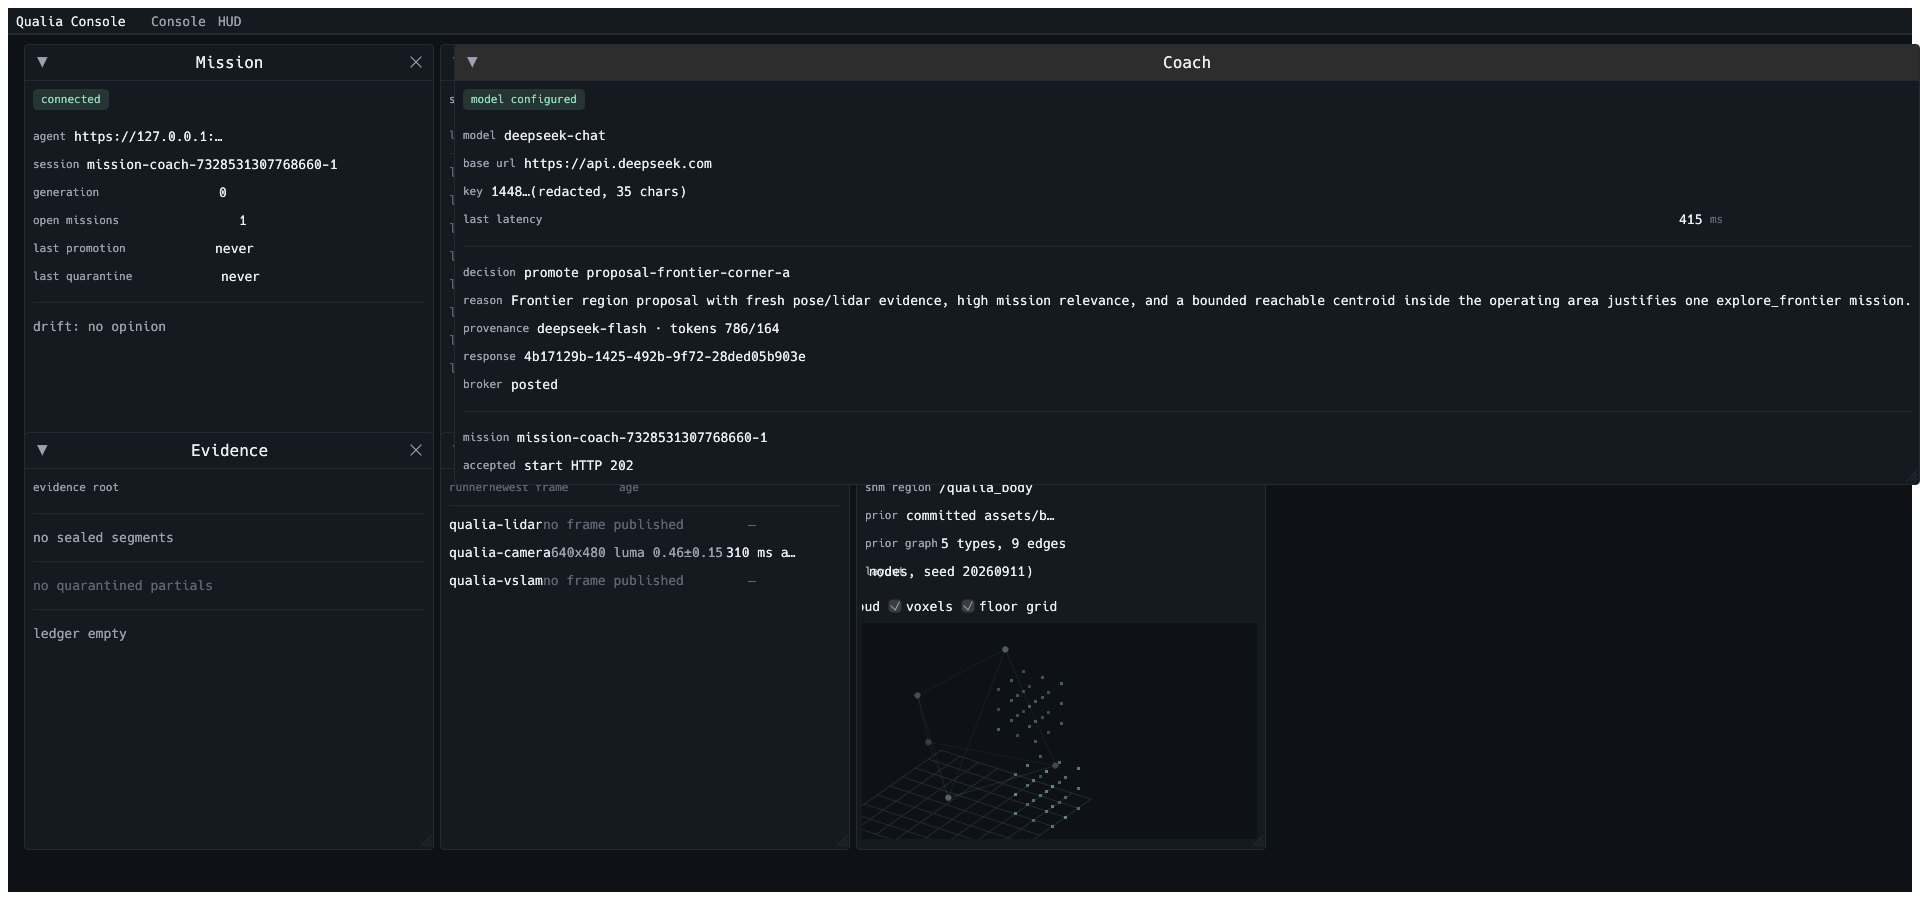
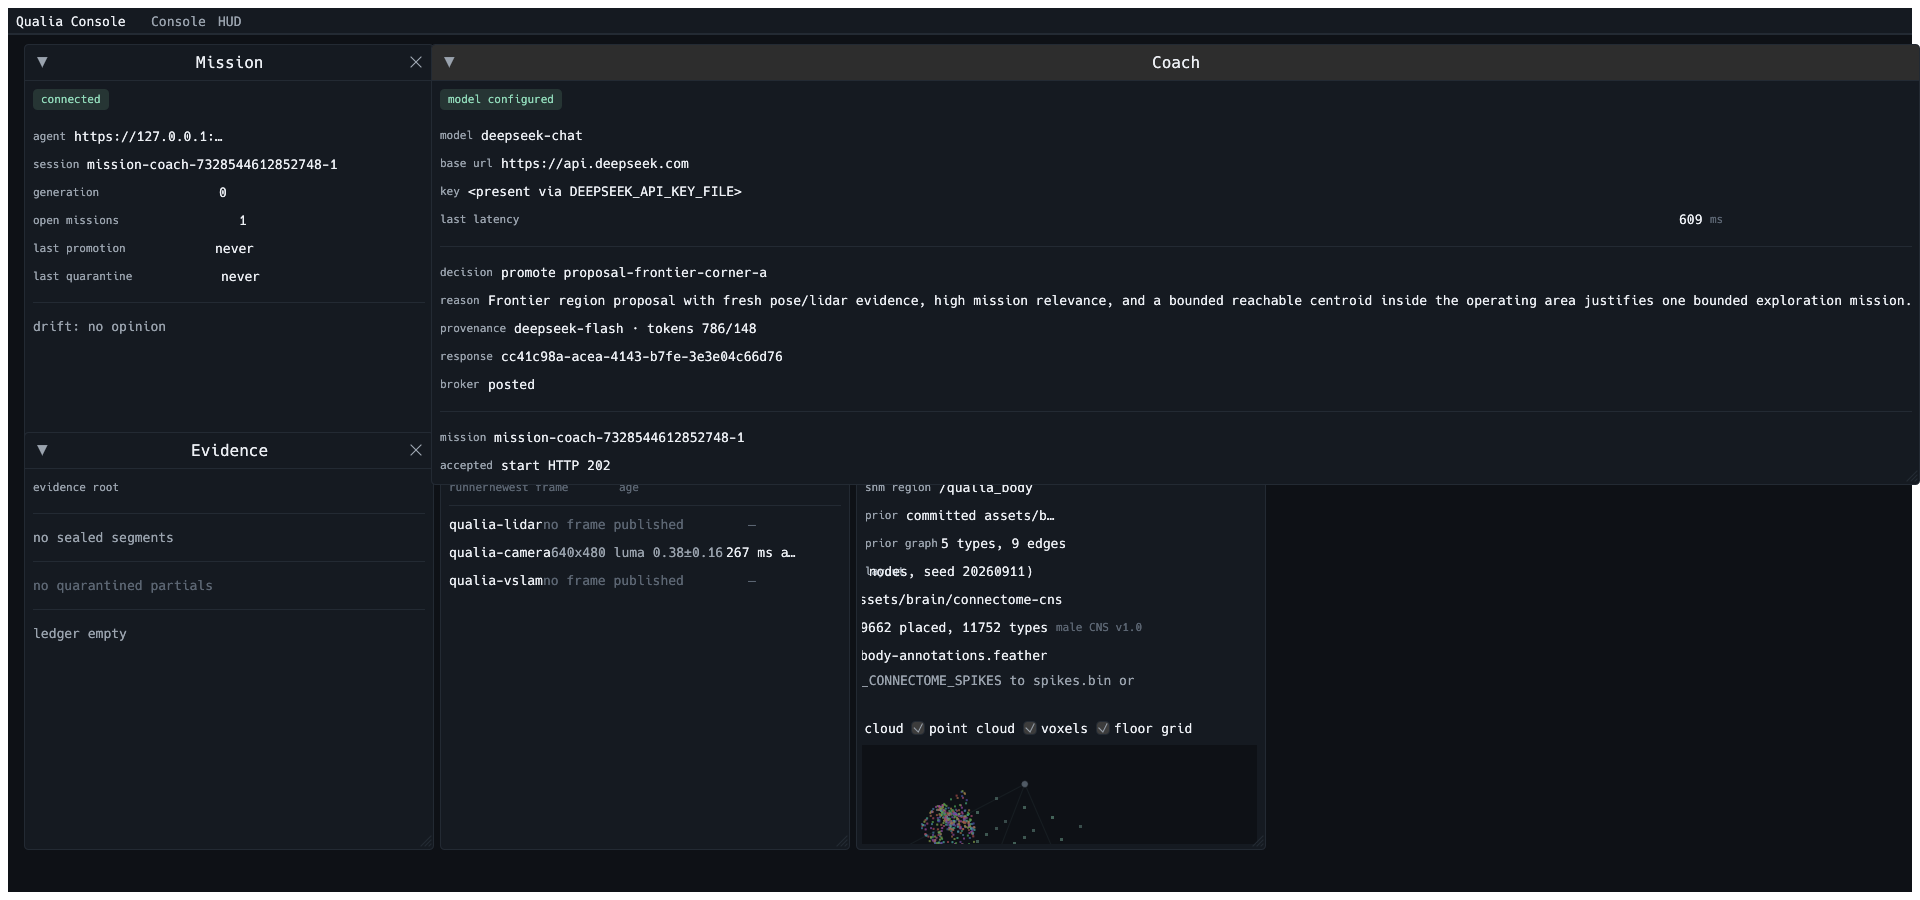
T66: refresh the T63 evidence with the presence-only run (#251)
live-run.txt is the re-run `--once` pass: `key=<present via
DEEPSEEK_API_KEY_FILE>`, response 9f8bbc50-…, 449 ms, 782/139 tokens, exit 0
state=posted.

coach-panel.png is re-rendered headlessly (no window, D-023) on the rebased
tree (D-026: origin/main now carries #252's console changes). The capture run
is `--ticks 30 --poll-ms 2000` over the live status surface; the panel shows
the presence token, 609 ms, 786/148 tokens, response cc41c98a-…, mission
mission-coach-7328544612852748-1. Against the pre-rebase render 39,611 px
moved: 2,805 px inside the panel (its live value lines, absolute y 214-308)
and 36,806 px across the six-view grid, which reads live frame ages and the
new mission state; the key line is byte-identical between the two renders. No
committed console snapshot is touched by this branch, so no other ticket's
render can be reverted.

The README's transcript quotes and panel quote now match those runs, and the
qualification about the 4-character prefix is gone because there is nothing
left to qualify.

Also: CoachConfig's Debug is hand-written. A `{:?}` on the config that holds
the credential must not be a way to reach it; it now prints the presence and
provenance the log line prints.

diff --git a/runners/mission-broker/src/config.rs b/runners/mission-broker/src/config.rs
@@ -74,7 +74,7 @@ impl Area {
 }
 
 /// The coach's configuration, resolved from the environment.
-#[derive(Debug, Clone)]
+#[derive(Clone)]
 pub struct CoachConfig {
     pub base_url: String,
     pub model: String,
@@ -104,6 +104,26 @@ impl CoachConfig {
     /// Whether a credential is present, without exposing it.
     pub fn configured(&self) -> bool {
         self.api_key.is_some()
+    }
+}
+
+/// Deliberately not derived: a `{:?}` on the configuration must not be a way
+/// to reach the credential, so this prints what [`crate::redact::key_presence`]
+/// prints — presence and provenance — and never `api_key`.
+impl std::fmt::Debug for CoachConfig {
+    fn fmt(&self, f: &mut std::fmt::Formatter<'_>) -> std::fmt::Result {
+        f.debug_struct("CoachConfig")
+            .field("base_url", &self.base_url)
+            .field("model", &self.model)
+            .field(
+                "key_presence",
+                &self
+                    .key_source
+                    .as_deref()
+                    .map(|source| crate::redact::key_presence(Some(source))),
+            )
+            .field("timeout", &self.timeout)
+            .finish()
     }
 }
 

diff --git a/docs/evidence/T63/README.md b/docs/evidence/T63/README.md
@@ -22,15 +22,15 @@ broker read the same secret through the same `_FILE` key.
 
 ## The live request and response
 
-`live-run.txt` is the run verbatim; the facts, redacted. **The credential never appears** and this tree
-contains no key-shaped literal. One honest qualification the correctness review added: the redactor prints a
-**4-character prefix and the key's length** by design (`key=1448… (redacted, 35 chars)`), so the evidence does
-carry 4 of 35 characters — 16 bits, not recoverable, but it is material, and ticket #251 removes even that so
-the sentence becomes unconditionally true.
+`live-run.txt` is the run verbatim; the facts, redacted. **The credential never appears**: a configured key is
+named by presence and provenance only (`key=<present via DEEPSEEK_API_KEY_FILE>`), with no character of the key
+and no length, and this tree contains no key-shaped literal. Re-captured 2026-09-12 under #251 — the earlier
+transcript carried a 4-character prefix plus the key's length, and `redact.rs` no longer has a prefix mode; this
+is the live `--once` pass after that change.
 
 ```text
-coach request  model=deepseek-chat base_url=https://api.deepseek.com key=1448…(redacted, 35 chars) prompt_digest=sha256:471331be… prompt_bytes=2859 timeout_ms=8000
-coach response id=14e8c6f7-8f7d-472d-a537-30415f7e20ab model=deepseek-flash latency_ms=435 usage=prompt_tokens=775 completion_tokens=144 finish_reason=stop
+coach request  model=deepseek-chat base_url=https://api.deepseek.com key=<present via DEEPSEEK_API_KEY_FILE> prompt_digest=sha256:e54a98a3… prompt_bytes=2879 timeout_ms=8000
+coach response id=9f8bbc50-469a-45cf-97b4-772ff20a43d9 model=deepseek-flash latency_ms=449 usage=prompt_tokens=782 completion_tokens=139 finish_reason=stop
 ```
 
 The provider reported its own model id (`deepseek-flash`) rather than the
@@ -44,10 +44,10 @@ parsed into a decision:
 ```json
 {"decision_kind":"promote","target_proposal_ids":["proposal-frontier-corner-a"],
  "output_ids":["proposal-frontier-corner-a"],
- "reason":"Frontier region proposal with fresh pose/lidar evidence, high mission relevance, and a bounded reachable centroid inside the operating area justifies one bounded exploration mission.",
+ "reason":"Frontier region proposal with fresh pose/lidar evidence, high mission relevance, and bounds inside the operating area justifies one bounded exploration mission.",
  "mission":{"objective_kind":"explore_frontier",
-            "summary":"Explore frontier region near corner A within bounded distance and runtime.",
-            "target_x_m":1.9,"target_y_m":1.1,"tolerance_m":0.5,
+            "summary":"Explore frontier region in the corner of the operating area.",
+            "target_x_m":1.9,"target_y_m":1.1,"tolerance_m":0.3,
             "max_distance_m":2.0,"max_runtime_ms":60000,"max_replans":1}}
 ```
 
@@ -60,13 +60,16 @@ from the proposal's `lineage.evidence_refs` (`evidence_refs=2`).
 
 ```text
 qualia-mission-broker: posted POST https://127.0.0.1:8080/mission-control/envelopes -> HTTP 202 accepted=true idempotent_replay=false
-qualia-mission-broker: read back GET /mission-control/missions -> mission mission-coach-7328529549370528-1 status=paused stage=awaiting_evidence code=awaiting_fresh_evidence
-qualia-mission-broker: read back GET /mission-control/events -> seq=1 kind=accepted status=queued code=accepted detail=bounded mission was durably accepted
+qualia-mission-broker: read back GET /mission-control/missions -> mission mission-coach-7328542779780072-1 status=paused stage=awaiting_evidence code=awaiting_fresh_evidence
+qualia-mission-broker: read back GET /mission-control/events -> seq=13 kind=accepted status=queued code=accepted detail=bounded mission was durably accepted
+qualia-mission-broker: read back GET /mission-control/events -> seq=14 kind=paused status=paused code=awaiting_fresh_evidence detail=mission is paused until referenced fresh spatial evidence exists
 ```
 
 The agent's own answer, captured from `GET /mission-control/missions`
 (`missions-after-live-run.json`, read with the CA certificate and no token —
-the Read scope is loopback-bypassed):
+the Read scope is loopback-bypassed). It is the T63-era capture, so it holds
+T63's two missions; the #251 re-run's own mission id, posted and read back
+above, is in `live-run.txt`:
 
 ```text
 schema qualia.mission-control-state.v1 broker_epoch 7328531307768660 seq 1 count 2
@@ -74,7 +77,7 @@ mission-coach-7328531307768660-1 broker qualia-mission-broker-chalant epoch 7328
 mission-coach-7328529549370528-1 broker qualia-mission-broker-chalant epoch 7328529549370528 seq 1 cmd start evidence_refs 2 | status failed  terminal           deadline_exceeded
 ```
 
-The second row is the honest end of the first `--once` pass: its deadline is its
+The second row is the honest end of T63's first `--once` pass: its deadline is its
 own `max_runtime_ms` (60 s), the mission parked at `awaiting_fresh_evidence`
 because this build has no spatial world model (`/world-model/proposals` is a
 `503` stub), and the agent's supervisor closed it when the deadline passed. It
@@ -88,13 +91,13 @@ on its bounded run. The Coach panel reads `GET /coach` and shows, verbatim:
 
 ```text
 model configured      model deepseek-chat      base url https://api.deepseek.com
-key 1448… (redacted, 35 chars)                 last latency 415 ms
+key <present via DEEPSEEK_API_KEY_FILE>        last latency 609 ms
 decision promote proposal-frontier-corner-a
 reason Frontier region proposal with fresh pose/lidar evidence, …
-provenance deepseek-flash · tokens 786/164
-response 4b17129b-1425-492b-9f72-28ded05b903e
+provenance deepseek-flash · tokens 786/148
+response cc41c98a-acea-4143-b7fe-3e3e04c66d76
 broker posted
-mission mission-coach-7328531307768660-1       accepted start HTTP 202
+mission mission-coach-7328544612852748-1       accepted start HTTP 202
 ```
 
 and the six views around it (`open_missions=1` on the Mission panel and the
@@ -105,12 +108,12 @@ The example prints what it drew:
 
 ```text
 coach_evidence: broker http://127.0.0.1:8091 -> deepseek-chat (ok), 1 decision(s), 1 mission(s)
-coach_evidence: decision coach-7328531307768660-1 promote -> proposal-frontier-corner-a · model deepseek-flash · latency 415 ms · tokens 786/164 · response 4b17129b-… · priors_ablated=false
+coach_evidence: decision coach-7328544612852748-1 promote -> proposal-frontier-corner-a · model deepseek-flash · latency 609 ms · tokens 786/148 · response cc41c98a-… · priors_ablated=false
 
 (That line is the **bounded `--ticks 30` capture run**, not the `--once` run: the `--once` run's own numbers are
-in `live-run.txt` — 435 ms, 775/144 tokens, response `14e8c6f7-…`. Both are live model calls; they are simply
+in `live-run.txt` — 449 ms, 782/139 tokens, response `9f8bbc50-…`. Both are live model calls; they are simply
 different runs, and a reader must not cross-quote them.)
-coach_evidence: mission mission-coach-7328531307768660-1 start accepted=true ack=Some(202)
+coach_evidence: mission mission-coach-7328544612852748-1 start accepted=true ack=Some(202)
 ```
 
 A broker that is not running does not produce an empty panel: the same panel
